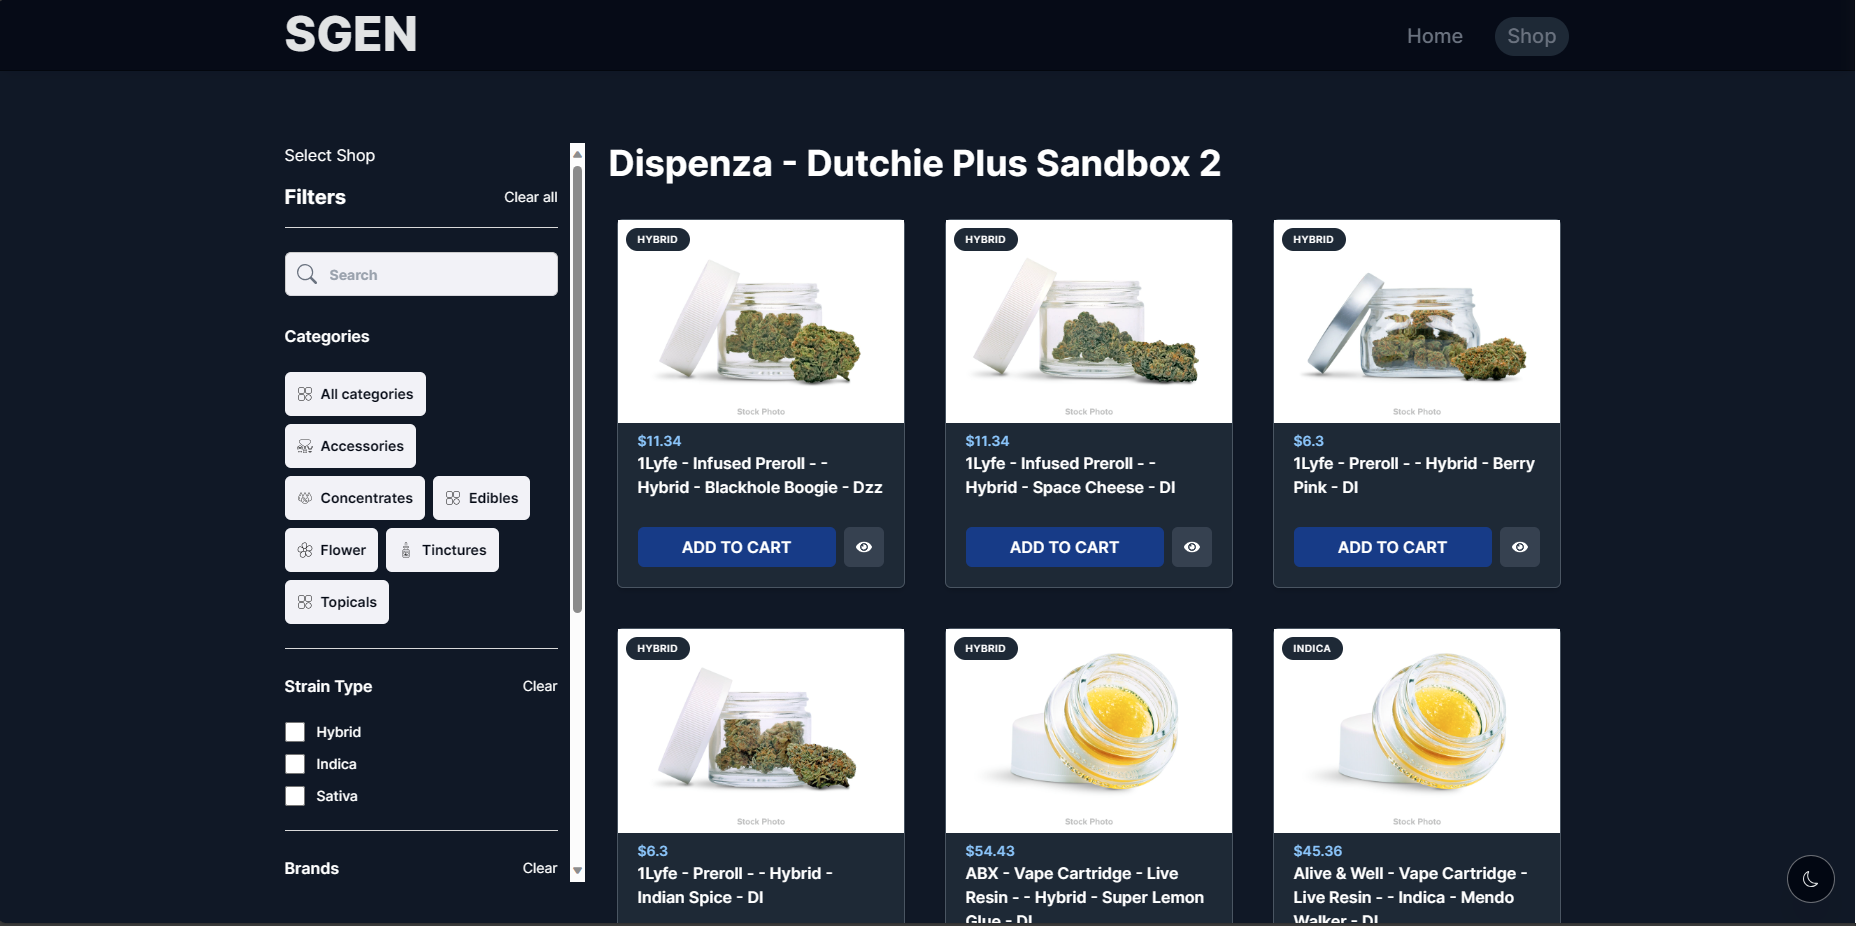
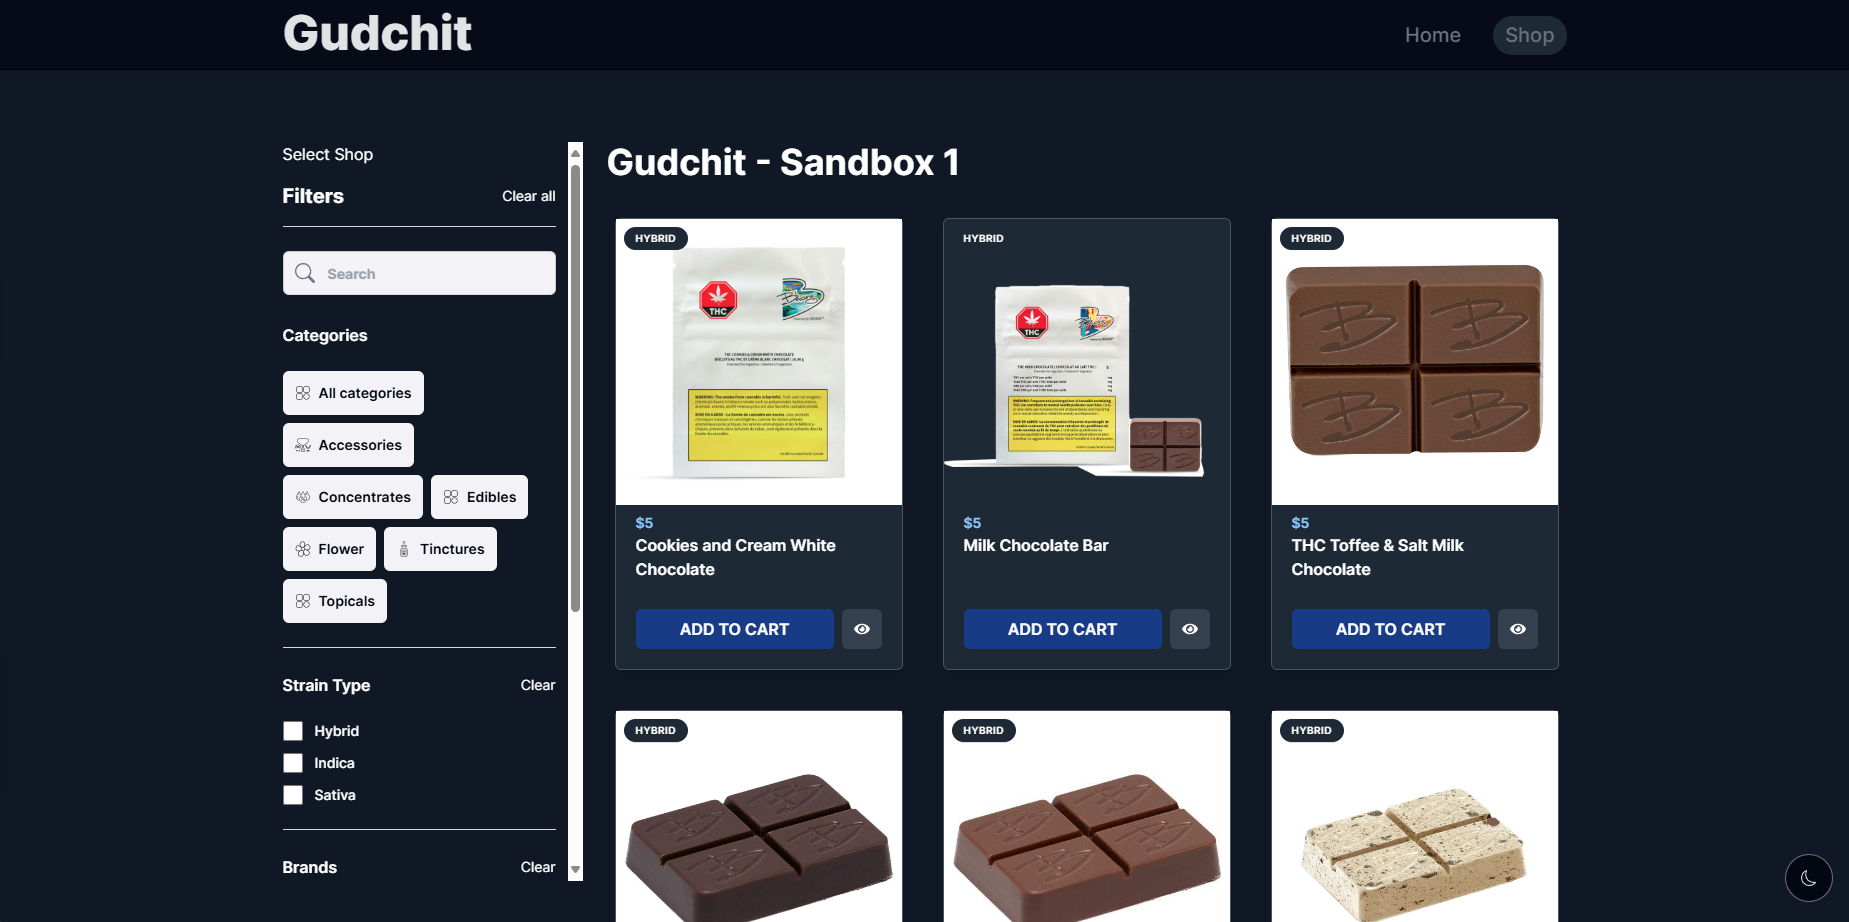
Update project and skills

diff --git a/lib/data.js b/lib/data.js
@@ -6,6 +6,7 @@ import { LuGraduationCap } from 'react-icons/lu'
 const vsonaai = require('@/public/VSona-A.I.png')
 const erpconsultancy = require('@/public/erpconsultantcy.png')
 const ecommerce = require('@/public/e-commerce.png')
+const OLAS = require('@/public/OLAS.png')
 
 export const links = [
   {
@@ -79,12 +80,12 @@ export const projectsData = [
     websiteUrl: 'https://www.vsona.ai/',
   },
   {
-    title: 'SGEN E-Commerce',
+    title: 'Secret Shop',
     description:
       'I worked as a front-end developer on this sample project. It is a E-Commerce website',
     tags: ['React', 'Next.js', 'Django', 'Tailwind', 'CSS', 'Framer Motion'],
     imageUrl: ecommerce,
-    websiteUrl: 'https://dutchie-demo-shop-bgxd2bvflq-uc.a.run.app',
+    websiteUrl: 'https://gudchit-mvp-demo-7ku6akz3iq-uc.a.run.app',
   },
   {
     title: 'ERP Consultancy Website',
@@ -93,6 +94,22 @@ export const projectsData = [
     tags: ['React', 'Next.js', 'Tailwind', 'Figma'],
     imageUrl: erpconsultancy,
     websiteUrl: 'https://erpconsultancy.dev',
+  },
+  {
+    title: "Our Lord's Angels School LMS",
+    description:
+      'I worked as a front-end developer on this project for 5 months up to present. It is a A.I persona voice chats',
+    tags: [
+      'React',
+      'Next.js',
+      'Django',
+      'Tailwind',
+      'CSS',
+      'Framer Motion',
+      'Figma',
+    ],
+    imageUrl: OLAS,
+    websiteUrl: 'https://olas-lms-ui-3z3lnppmra-as.a.run.app',
   },
 
   /* {
@@ -112,7 +129,6 @@ export const skillsData = [
   'React',
   'Next.js',
   'Node.js',
-  'Google Cloud CI/CD',
   'Git',
   'Tailwind',
   'Bootstrap',
@@ -129,4 +145,11 @@ export const skillsData = [
   'PWA',
   'AI Chatbot',
   'Figma',
+  'Docker',
+  'Google Cloud CI/CD',
+  'Amazon S3',
+  'Amazon EC2',
+  'Amazon API Gateway',
+  'Amazon Lambda',
+  'DynamoDB',
 ]
